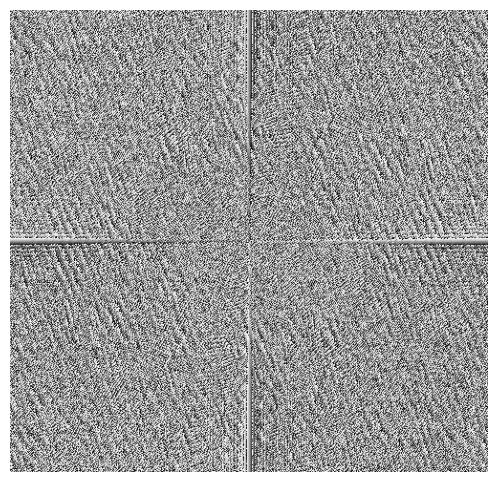
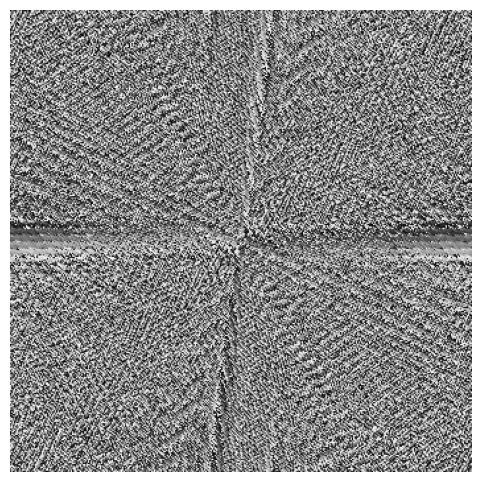
ll

diff --git a/mixer.py b/mixer.py
@@ -19,15 +19,17 @@ from skimage.exposure import adjust_gamma
 from matplotlib.backends.backend_qt5agg import FigureCanvasQTAgg, NavigationToolbar2QT as NavigationToolbar
 from matplotlib.figure import  Figure
 from skimage.color import rgb2hsv, rgb2gray, rgb2yuv
+from skimage.transform import  resize
+
 
 
 MainUI, _ = loadUiType(path.join(path.dirname(__file__), 'untitled.ui'))
 
 
 class Image:
-    def __init__(self,file_path,main_window):
+    def __init__(self,main_window):
         self.image_gray_scale = None
-        self.file_path = file_path
+        self.file_path = None
         self.main_window = main_window
         self.figures = []
         self.axes =[]
@@ -48,10 +50,16 @@ class Image:
 
     def open_image(self,file_path,button_name):
         pixmap = QPixmap(file_path)
+
+
         image = pixmap.toImage()
         if not self.updated:
+            image_data = imread(file_path)
+            self.images.append(image_data)
+            self.file_path = file_path
             self.grayscale_image = self.convert_to_grayscale(image)
             image = self.grayscale_image
+        self.updated = False
 
 
 
@@ -82,6 +90,17 @@ class Image:
                                                                                          transformMode=1))
             self.main_window.fourth_img_original.setScaledContents(True)
             self.main_window.add_img4_btn.hide()
+        elif button_name == 4:
+            self.main_window.output_port_1.setPixmap(QPixmap.fromImage(image).scaled(350, 350,
+                                                                                           aspectRatioMode=True,
+                                                                                           transformMode=1))
+            self.main_window.output_port_1.setScaledContents(True)
+        else:
+            self.main_window.output_port_2.setPixmap(QPixmap.fromImage(image).scaled(350, 350,
+                                                                                     aspectRatioMode=True,
+                                                                                     transformMode=1))
+            self.main_window.output_port_2.setScaledContents(True)
+
 
         self.create_figure()
 
@@ -104,7 +123,7 @@ class Image:
 
     def fourier_transform(self,image):
         image = np.fft.fftshift(np.fft.fft2(image))
-        return np.log(np.abs(image)), np.angle(image) ,image
+        return np.abs(image), np.angle(image) ,image
 
 
     def get_mode_for_each_image(self,image_index):
@@ -123,24 +142,25 @@ class Image:
 
     def read_image(self,mode,image_index):
         self.axes[image_index].cla()
-        image_data = imread(self.file_path)
-        self.image_gray_scale = rgb2gray(image_data)
-        # self.images[image_index].append(self.image_gray_scale)
+        print(f"mode:{mode}")
+        self.image_gray_scale = rgb2gray(self.images[image_index])
+        self.image_gray_scale = resize(self.image_gray_scale,(350,350),anti_aliasing=True)
+
         Magnitude, phase, image= self.fourier_transform(self.image_gray_scale)
         if mode == 'Magnitude':
-            self.axes[image_index].imshow(Magnitude,cmap='Grays')
+            self.axes[image_index].imshow(np.log(Magnitude)/20,cmap='gray')
             self.images_mode_data[image_index] = [mode,Magnitude]
 
         elif mode == 'Real Components':
-            self.axes[image_index].imshow(image.real, cmap='Grays')
+            self.axes[image_index].imshow(image.real, cmap='gray')
             self.images_mode_data[image_index] = [mode, image.real]
 
         elif mode =="Phase":
-            self.axes[image_index].imshow(phase, cmap='Grays')
+            self.axes[image_index].imshow(phase, cmap='gray')
             self.images_mode_data[image_index] = [mode, phase]
 
         elif mode == "Imaginary Components":
-            self.axes[image_index].imshow(image.imag,cmap="Grays")
+            self.axes[image_index].imshow(image.imag,cmap="gray")
             self.images_mode_data[image_index] = [mode, image.imag]
 
         self.update_graph(image_index)
@@ -155,6 +175,7 @@ class Image:
     def update_graph(self,image_index):
         print(f"inde:{image_index}")
         self.counter += 1
+        print(f"count:{self.counter}")
         self.updated = True
         self.figures[image_index].canvas.draw()
         canvas = FigureCanvasQTAgg(self.figures[image_index])
@@ -180,7 +201,7 @@ class Image:
 
 
     def get_components_mixer(self):
-        Mag_component, Phase_component, Real_component, imaginary_component = 0, 0, 0, 0
+        Mag_component, Phase_component, Real_component, imaginary_component = [],[],[], []
         for item , value in self.images_mode_data.items():
             if value[0] == 'Magnitude':
                 Mag_component = value[1]
@@ -191,12 +212,13 @@ class Image:
             else:
                 imaginary_component = value[1]
 
-        if Mag_component and Phase_component:
+        if len(Mag_component) > 2 and len(Phase_component) > 2:
+            Mag_component = np.reshape(Mag_component,Phase_component.shape)
             mixer_result = Mag_component * Phase_component
             self.image_mixer(mixer_result, 4)
 
-        if Real_component and imaginary_component:
-            mixer_result = Real_component + imaginary_component
+        if len(Real_component) > 2 and len(imaginary_component) > 2:
+            mixer_result = Real_component + 1j*imaginary_component
             self.image_mixer(mixer_result, 4)
 
 
@@ -208,10 +230,15 @@ class Image:
 
 
     def image_mixer(self,data_mixer,output_port_index):
+
         image = np.fft.ifft2(data_mixer)
 
-        self.axes[output_port_index].imshow(image,cmap='Gray')
-        self.figures[output_port_index].canvas.draw()
+        # img_filtered = np.abs(image).clip(0, 255).astype(np.uint8)
+        img_filtered = np.abs(image).clip(0, 255).astype(np.float_)
+        self.axes[output_port_index].imshow(img_filtered,cmap='gray')
+        # self.figures[output_port_index].canvas.draw()
+        print(img_filtered)
+
         self.update_graph(output_port_index)
         return
 
@@ -236,6 +263,7 @@ class MainApp(QMainWindow, MainUI):
         self.setupUi(self)
         self.handle_pushbuttons()
         self.a = "hallo"
+        self.image = Image( self)
 
 
 
@@ -259,8 +287,6 @@ class MainApp(QMainWindow, MainUI):
                                                   options=options)
         if fileName:
             print(f"button:{button_name}")
-            self.image = Image(fileName, self)
-
             self.image.open_image(fileName,button_name)
 
 
